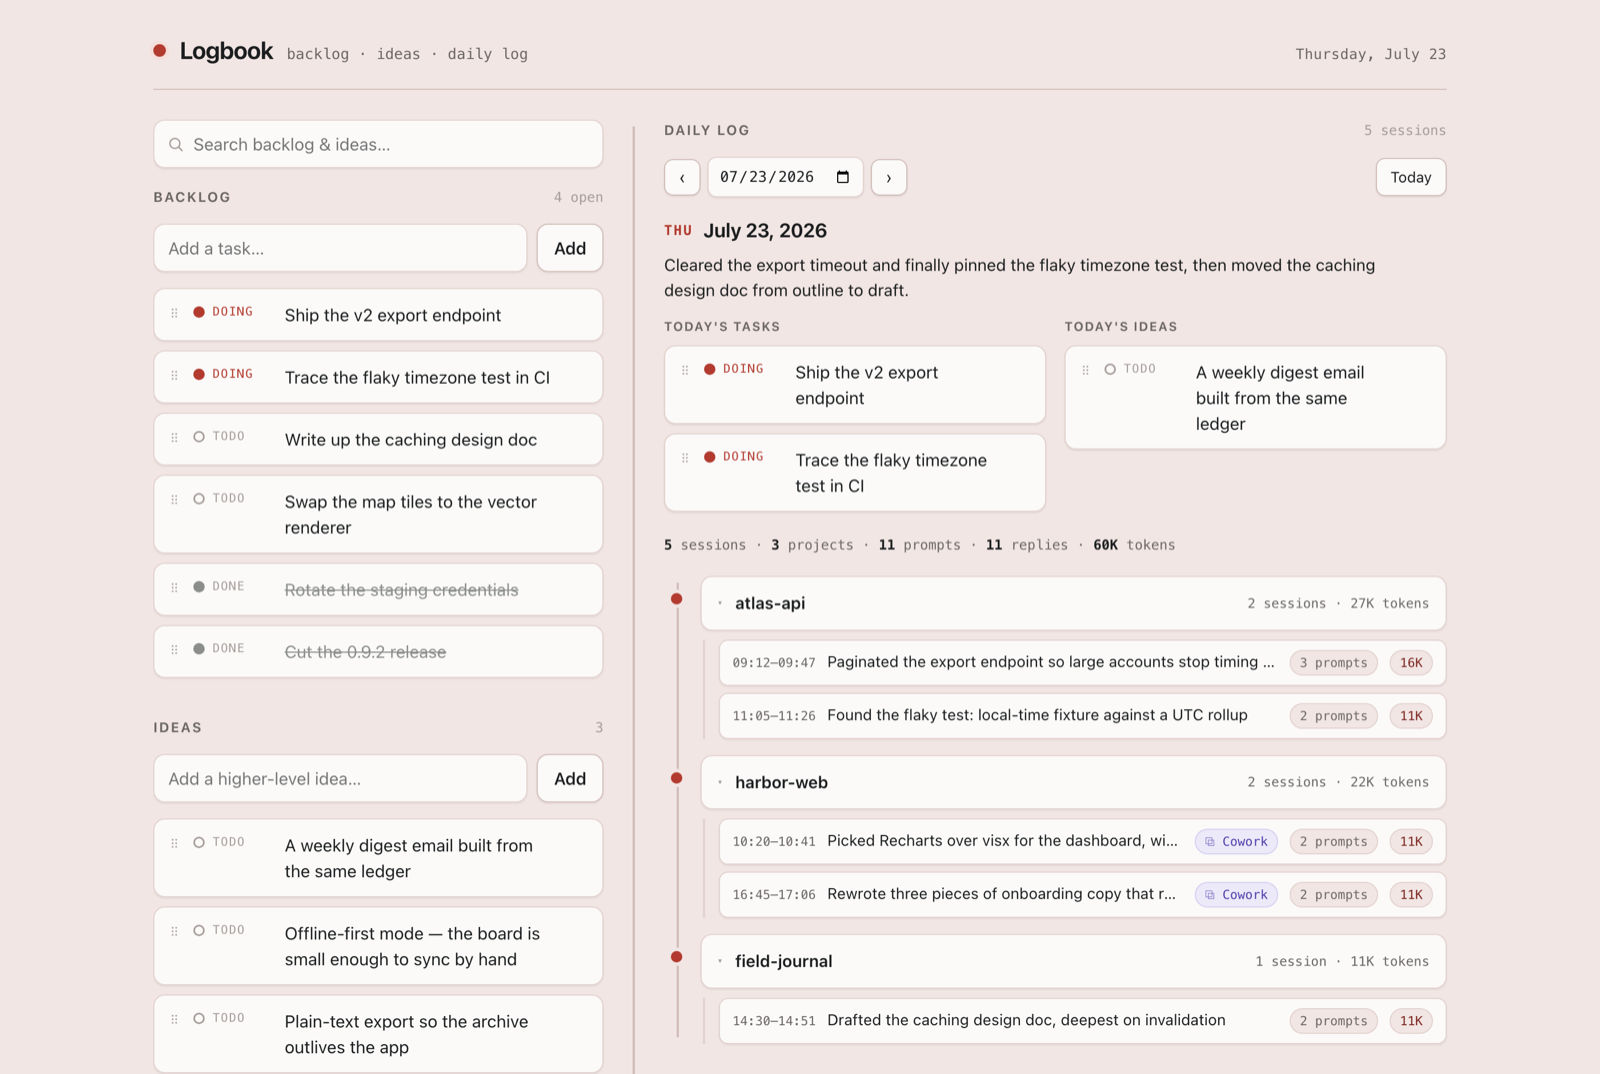
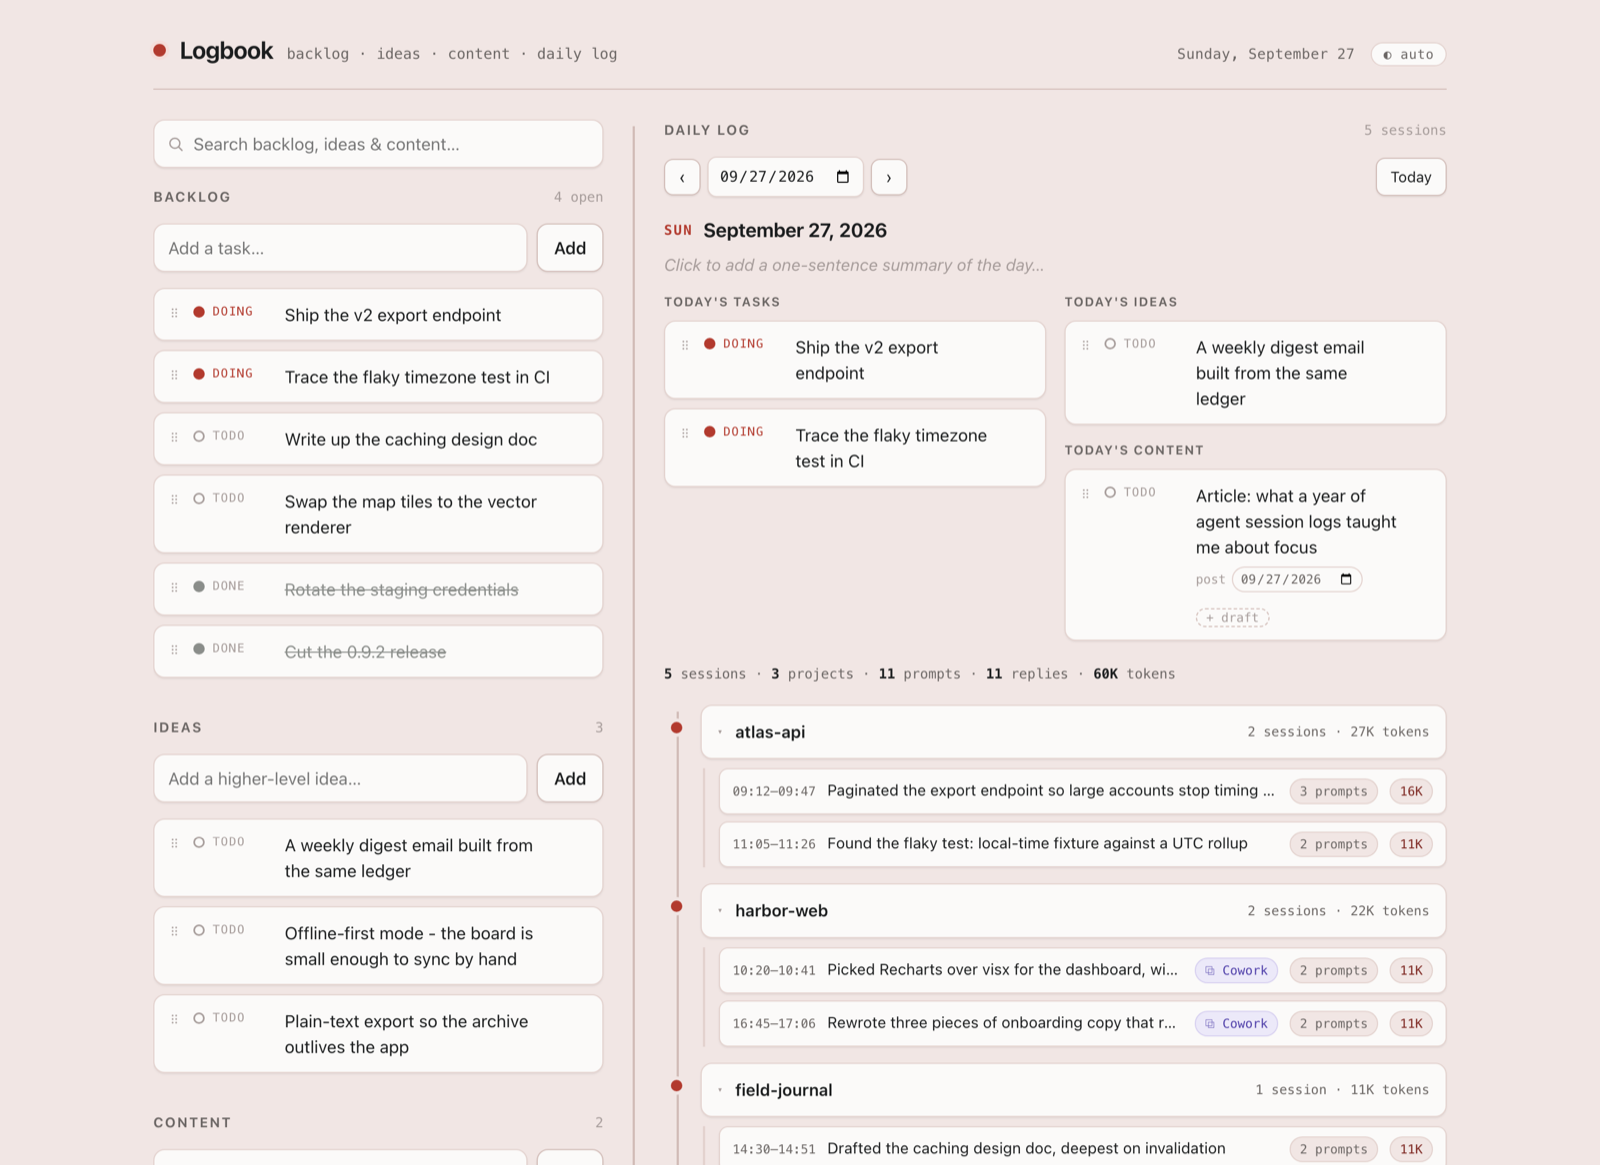
Regenerate README screenshots from current main
Fresh synthetic-data shots of the current UI (Content list, theme pill).
The today shot no longer shows a day summary, which the app never
generates for the day in progress; the past-day shot keeps one.

Claude-Session: https://claude.ai/code/session_01AYJfHuGxEWCRdBrZH2ZJdw

diff --git a/README.md b/README.md
@@ -11,7 +11,7 @@ daily log that writes itself from your Claude Code sessions.
 No dependencies, no build step, no account. Python 3 (already on your Mac) and one HTML file,
 running on your own machine.
 
-![The Logbook UI: a backlog and ideas list on the left, and the day's Claude Code sessions on the
+![The Logbook UI: backlog, ideas and content lists on the left, and the day's Claude Code sessions on the
 right](docs/screenshots/1-deck.png)
 
 Everything on one screen: the lists on the left, today's focus and the session ledger on the
